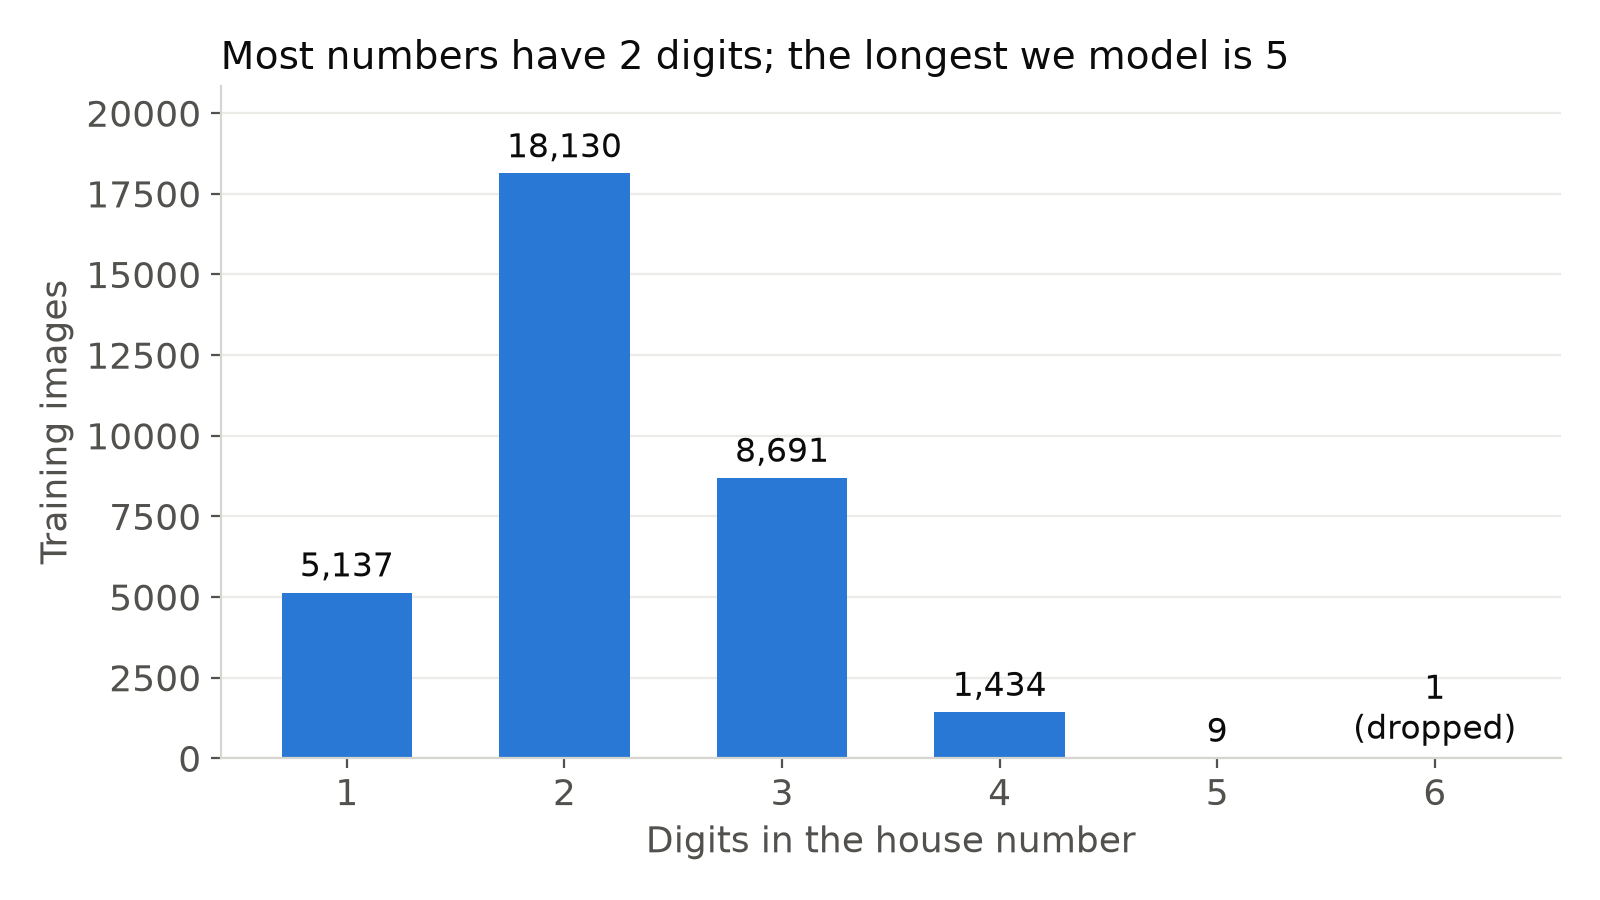
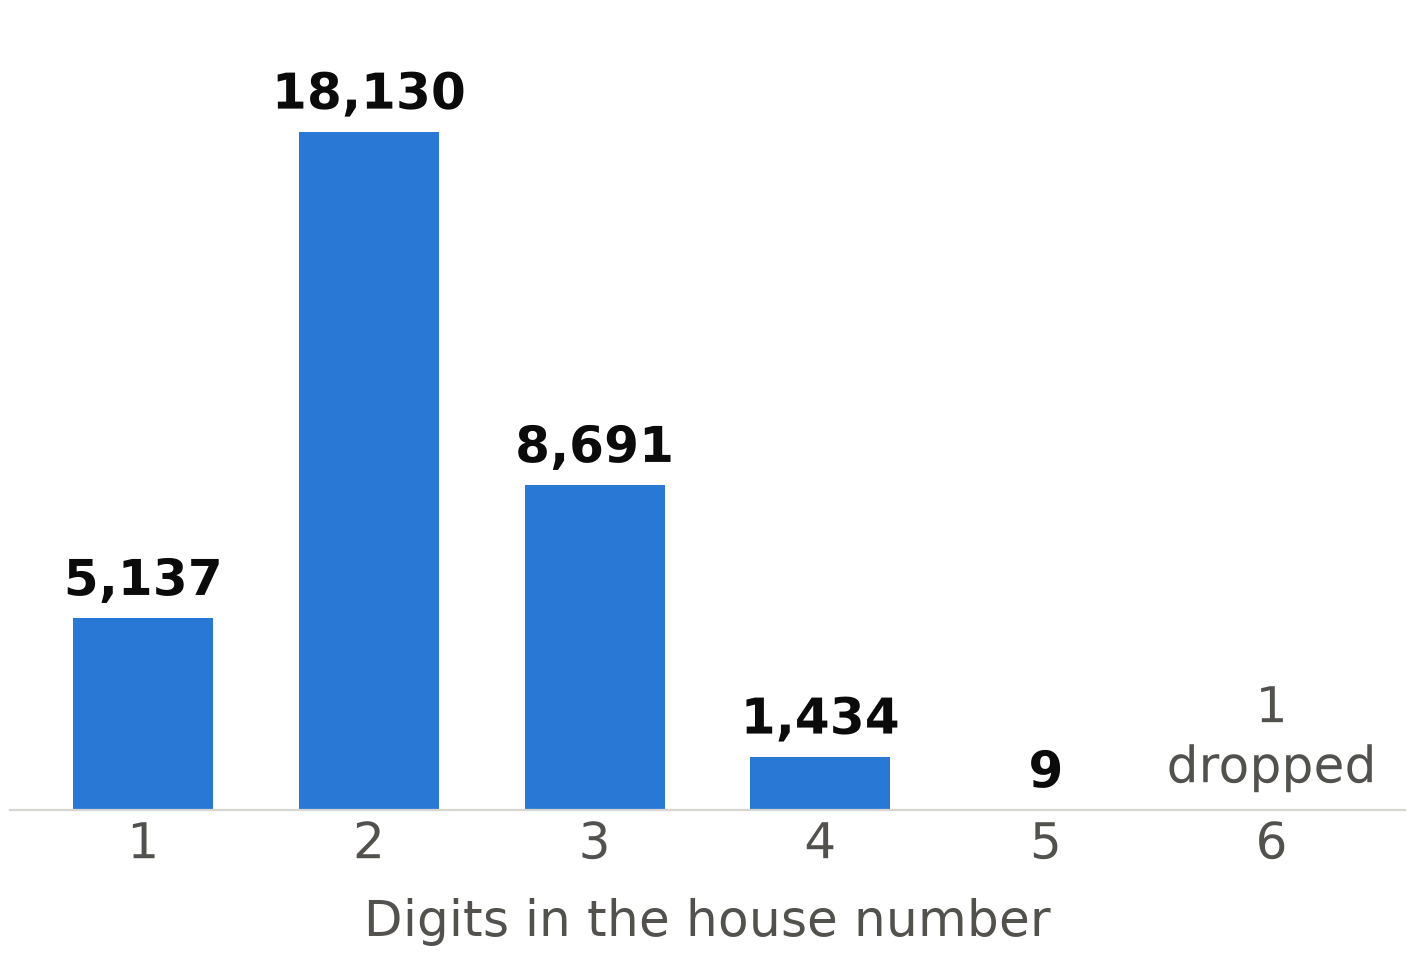
Redesign slide figures
Title mosaic, label-encoding diagram, crop flow, split bar, and a
cleaner digits-per-image chart; drop the old two-example figure.

Changed region(s): [[0.0, 0.0311, 0.9951, 0.9956], [0.0622, 0.1867, 0.1244, 0.2489], [0.0622, 0.0933, 0.1244, 0.1556]]

diff --git a/data_pipeline/make_figures.py b/data_pipeline/make_figures.py
@@ -1,8 +1,12 @@
 """
-Figures for the data slides -> figures/.
+Figures for the slides -> figures/.
+  title_mosaic.png       real 64x64 crops, for the title slide (navy background)
   digits_per_image.png   how many digits each training image has (why k = 5)
-  pipeline_examples.png  raw image + boxes -> 64x64 crop, with the labels we build
+  label_encoding.png     how one image becomes 6 labels, one per softmax head
+  pipeline_flow.png      raw image -> crop (+30%) -> 64x64
+  split_bar.png          train / val / test sizes
 
+Needs data/processed/ (run preprocess.py first).
 Run:  python data_pipeline/make_figures.py
 """
 import json
@@ -10,76 +14,135 @@ import os
 from collections import Counter
 
 import matplotlib.pyplot as plt
-from matplotlib.patches import Rectangle
+import numpy as np
+from matplotlib.patches import FancyBboxPatch, Rectangle
 from PIL import Image
 
 from config import IMG_SIZE, SVHN_DIR
+from load_data import load_arrays
 from preprocess import crop_box, make_labels
 
 OUT = os.path.join(os.path.dirname(__file__), "..", "figures")
-BLUE, ORANGE, GRAY, INK, MUTED = "#2a78d6", "#eb6834", "#a8a7a2", "#0b0b0b", "#52514e"
-plt.rcParams.update({"font.family": "DejaVu Sans", "font.size": 13, "text.color": INK,
+NAVY, BLUE, ORANGE, AQUA = "#0f2a4a", "#2a78d6", "#eb6834", "#1baf7a"
+INK, MUTED, GRAY, LINE = "#0b0b0b", "#52514e", "#b5b4ae", "#d6d5d0"
+plt.rcParams.update({"font.family": "DejaVu Sans", "font.size": 20, "text.color": INK,
                      "axes.labelcolor": MUTED, "xtick.color": MUTED, "ytick.color": MUTED})
 os.makedirs(OUT, exist_ok=True)
+
+
+def save(fig, name, bg="white"):
+    fig.savefig(os.path.join(OUT, name), facecolor=bg, dpi=200, bbox_inches="tight", pad_inches=0.05)
+    plt.close(fig)
+
 
 with open(os.path.join(SVHN_DIR, "train", "digitStruct.json")) as f:
     records = json.load(f)
 by_name = {r["filename"]: r for r in records}
 
-# --- 1. Digits per image -------------------------------------------------------
+# --- Title mosaic: 2 rows x 12 real crops ---------------------------------------
+X, *_ = load_arrays("train")
+# Prefer high-contrast crops so the digits read at a glance.
+contrast = X.reshape(len(X), -1).std(axis=1)
+sharp = np.where(contrast > np.percentile(contrast, 75))[0]
+pick = np.random.default_rng(7).choice(sharp, 24, replace=False)
+fig, axes = plt.subplots(2, 12, figsize=(19.2, 3.3))
+fig.subplots_adjust(wspace=0.06, hspace=0.08, left=0, right=1, top=1, bottom=0)
+for a, i in zip(axes.flat, pick):
+    a.imshow(X[i], interpolation="bilinear")
+    a.axis("off")
+save(fig, "title_mosaic.png", bg=NAVY)
+
+# --- Digits per image ------------------------------------------------------------
 counts = Counter(len(r["boxes"]) for r in records)
 lengths = sorted(counts)
-fig, ax = plt.subplots(figsize=(8, 4.5), dpi=200)
-bars = ax.bar(lengths, [counts[n] for n in lengths], width=0.6,
+fig, ax = plt.subplots(figsize=(9, 5.2))
+bars = ax.bar(lengths, [counts[n] for n in lengths], width=0.62,
               color=[GRAY if n > 5 else BLUE for n in lengths])
 for n, b in zip(lengths, bars):
-    note = f"{counts[n]:,}" + ("\n(dropped)" if n > 5 else "")
-    ax.text(b.get_x() + b.get_width() / 2, b.get_height() + 250, note, ha="center", va="bottom",
-            fontsize=12, color=INK)
-ax.set_xlabel("Digits in the house number")
-ax.set_ylabel("Training images")
-ax.set_title("Most numbers have 2 digits; the longest we model is 5", loc="left", fontsize=14)
-ax.set_ylim(0, max(counts.values()) * 1.15)
-for s in ["top", "right"]:
+    note = f"{counts[n]:,}" + ("\ndropped" if n > 5 else "")
+    ax.text(b.get_x() + b.get_width() / 2, b.get_height() + 300, note, ha="center", va="bottom",
+            fontsize=18, color=MUTED if n > 5 else INK, fontweight="normal" if n > 5 else "bold")
+ax.set_xlabel("Digits in the house number", fontsize=18, labelpad=10)
+ax.set_xticks(lengths)
+ax.tick_params(axis="x", length=0, labelsize=18)
+ax.set_yticks([])
+ax.set_ylim(0, max(counts.values()) * 1.18)
+for s in ["top", "right", "left"]:
     ax.spines[s].set_visible(False)
-for s in ["left", "bottom"]:
-    ax.spines[s].set_color("#d6d5d0")
-ax.yaxis.grid(True, color="#ecebe7")
-ax.set_axisbelow(True)
-fig.tight_layout()
-fig.savefig(os.path.join(OUT, "digits_per_image.png"), facecolor="white")
-plt.close(fig)
+ax.spines["bottom"].set_color(LINE)
+save(fig, "digits_per_image.png")
 
-# --- 2. Pipeline examples ------------------------------------------------------
-examples = ["33402.png", "177.png"]
-fig, axes = plt.subplots(len(examples), 2, figsize=(9, 3.2 * len(examples)), dpi=200,
-                         gridspec_kw={"width_ratios": [2.2, 1]})
-for row, name in zip(axes, examples):
-    boxes = by_name[name]["boxes"]
-    img = Image.open(os.path.join(SVHN_DIR, "train", name)).convert("RGB")
-    l, t, r, b = crop_box(boxes, *img.size)
-    length, digits = make_labels(boxes)
+# --- Label encoding: 169 -> 6 labels ----------------------------------------------
+r = by_name["33402.png"]
+img = Image.open(os.path.join(SVHN_DIR, "train", r["filename"])).convert("RGB")
+crop = img.crop(crop_box(r["boxes"], *img.size)).resize((IMG_SIZE, IMG_SIZE), Image.BILINEAR)
+length, digits = make_labels(r["boxes"])
 
-    row[0].imshow(img)
-    for bx in boxes:
-        row[0].add_patch(Rectangle((bx["left"], bx["top"]), bx["width"], bx["height"],
-                                   fill=False, ec=BLUE, lw=2))
-    row[0].add_patch(Rectangle((l, t), r - l, b - t, fill=False, ec=ORANGE, lw=2.5, ls="--"))
-    row[0].set_title(f"{name}  ({img.size[0]}x{img.size[1]})", fontsize=12, loc="left", color=MUTED)
+fig = plt.figure(figsize=(14, 4.2))
+ax_img = fig.add_axes([0.0, 0.12, 0.2, 0.76])
+ax_img.imshow(crop, interpolation="bilinear")
+ax_img.axis("off")
+ax = fig.add_axes([0.21, 0, 0.79, 1])
+ax.set_xlim(0, 100); ax.set_ylim(0, 40); ax.axis("off")
+ax.annotate("", xy=(11, 20), xytext=(1, 20), arrowprops=dict(arrowstyle="-|>", color=MUTED, lw=2.5,
+                                                           mutation_scale=28))
+values = [str(length)] + ["–" if d == 10 else str(d) for d in digits]
+names = ["length"] + [f"digit {i + 1}" for i in range(5)]
+for i, (v, n) in enumerate(zip(values, names)):
+    x = 14 + i * 14.2 + (2 if i else 0)
+    color = ORANGE if i == 0 else BLUE
+    blank = v == "–"
+    ax.add_patch(FancyBboxPatch((x, 9), 11.5, 21, boxstyle="round,pad=0,rounding_size=1.6",
+                                fc="white", ec=GRAY if blank else color, lw=3))
+    ax.text(x + 5.75, 19.5, v, ha="center", va="center", fontsize=46, fontweight="bold",
+            color=GRAY if blank else INK)
+    ax.text(x + 5.75, 34, n, ha="center", va="center", fontsize=19, color=MUTED)
+ax.text(19.75, 3.5, "6 classes", ha="center", fontsize=17, color=ORANGE)
+ax.text(16 + 14.2 * 3 + 5.75, 3.5, "11 classes each: 0–9 or blank", ha="center", fontsize=17, color=BLUE)
+save(fig, "label_encoding.png")
 
-    row[1].imshow(img.crop((l, t, r, b)).resize((IMG_SIZE, IMG_SIZE), Image.BILINEAR))
-    shown = ", ".join("_" if d == 10 else str(d) for d in digits)
-    row[1].set_title(f"length {length}\ndigits [{shown}]", fontsize=12, loc="left")
-    for a in row:
-        a.set_xticks([]); a.set_yticks([])
-        for s in a.spines.values():
-            s.set_color("#d6d5d0")
+# --- Pipeline flow: raw -> crop -> 64x64 ------------------------------------------
+l, t, rr, b = crop_box(r["boxes"], *img.size)
+raw_w, raw_h = img.size
+crop_w, crop_h = rr - l, b - t
+fig = plt.figure(figsize=(16, 3.6))
+# panel widths proportional to aspect ratio at equal height; arrows between
+widths = [raw_w / raw_h, 0.45, crop_w / crop_h, 0.45, 1.0]
+gs = fig.add_gridspec(1, 5, width_ratios=widths, wspace=0.05)
+a0, a1, a2, a3, a4 = (fig.add_subplot(gs[i]) for i in range(5))
+a0.imshow(img, interpolation="bilinear")
+for bx in r["boxes"]:
+    a0.add_patch(Rectangle((bx["left"], bx["top"]), bx["width"], bx["height"], fill=False, ec=BLUE, lw=2.5))
+a0.add_patch(Rectangle((l, t), crop_w, crop_h, fill=False, ec=ORANGE, lw=3, ls="--"))
+a2.imshow(img.crop((l, t, rr, b)), interpolation="bilinear")
+a4.imshow(crop, interpolation="nearest")
+captions = [(a0, f"Raw image, {raw_w}×{raw_h} px"), (a2, "Crop: all digits + 30%"),
+            (a4, "Resize: 64×64")]
+for a, c in captions:
+    a.set_xticks([]); a.set_yticks([])
+    for s in a.spines.values():
+        s.set_color(LINE)
+    a.set_xlabel(c, fontsize=20, color=INK, labelpad=12)
+for a in (a1, a3):
+    a.axis("off")
+    a.annotate("", xy=(0.95, 0.5), xytext=(0.05, 0.5), xycoords="axes fraction",
+               arrowprops=dict(arrowstyle="-|>", color=MUTED, lw=2.5, mutation_scale=28))
+save(fig, "pipeline_flow.png")
 
-axes[0][0].legend(handles=[Rectangle((0, 0), 1, 1, fill=False, ec=BLUE, lw=2),
-                           Rectangle((0, 0), 1, 1, fill=False, ec=ORANGE, lw=2.5, ls="--")],
-                  labels=["digit box (from JSON)", "crop: all digits + 30%"],
-                  loc="upper left", bbox_to_anchor=(0, -0.02), ncol=2, frameon=False, fontsize=11)
-fig.tight_layout()
-fig.savefig(os.path.join(OUT, "pipeline_examples.png"), facecolor="white")
-plt.close(fig)
+# --- Split bar ------------------------------------------------------------------
+parts = [("Train", 30061, BLUE), ("Validation", 3340, ORANGE), ("Test", 13068, AQUA)]
+total = sum(n for _, n, _ in parts)
+fig, ax = plt.subplots(figsize=(14, 1.9))
+x = 0
+gap = total * 0.004
+for name, n, c in parts:
+    ax.barh(0, n - gap, left=x, height=0.5, color=c)
+    # Test is labeled from its right end so it never collides with the narrow validation slice.
+    tx, ha = (x + n - gap, "right") if name == "Test" else (x, "left")
+    ax.text(tx, 0.48, name, ha=ha, va="bottom", fontsize=19, color=MUTED)
+    ax.text(tx, -0.4, f"{n:,}", ha=ha, va="top", fontsize=24, fontweight="bold", color=INK)
+    x += n
+ax.set_xlim(0, total); ax.set_ylim(-1.05, 1.0); ax.axis("off")
+save(fig, "split_bar.png")
+
 print("saved figures to", os.path.abspath(OUT))
